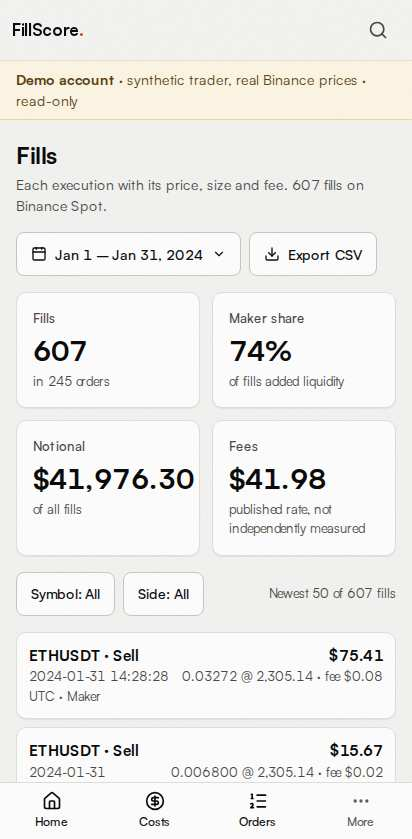
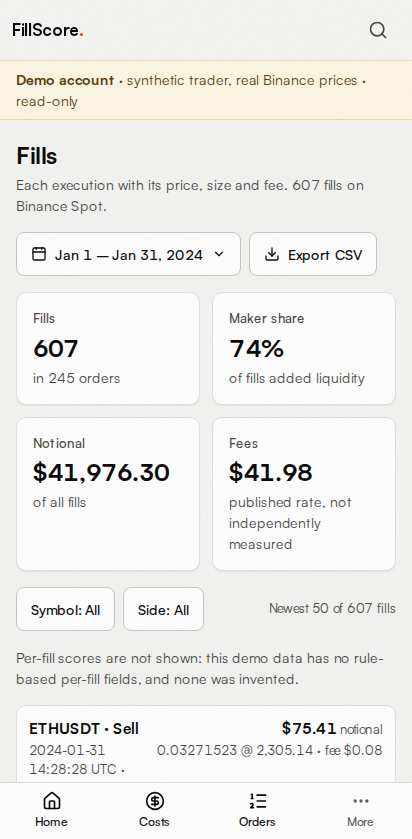
Design v5 review fixes, before and after numbers, checks

diff --git a/frontend/app/design-lab/v5/app/overview/page.tsx b/frontend/app/design-lab/v5/app/overview/page.tsx
@@ -5,7 +5,7 @@ import { bps, count, money, share } from '../../lib/format'
 import { ordersSentence, pageValues } from '../../lib/view'
 import { Card, CostBreakdown, GradeRange, Tile } from '../../components/Blocks'
 import { OrderCostChart, TypeBars } from '../../components/Charts'
-import { DemoBanner, PageHeader, PeriodPicker } from '../../components/PageHeader'
+import { PageHeader, PeriodPicker } from '../../components/PageHeader'
 
 /** Costs (was Overview; PROPOSAL §5). Route kept as /overview so the audit script measures the same address. */
 export default async function V5Costs({ searchParams }: { searchParams: Promise<{ userId?: string }> }) {
@@ -18,7 +18,6 @@ export default async function V5Costs({ searchParams }: { searchParams: Promise<
   const g = a.v2.result
   return (
     <main id="main">
-      <DemoBanner dataSource={a.dataSource} />
       <PageHeader title="Costs" description={ordersSentence(a, v.period)}
         controls={<PeriodPicker period={v.period} />}
         primary={<button type="button" className="v-btn v-btn-primary"><Download size={16} aria-hidden="true" />Download PDF</button>}
@@ -38,7 +37,7 @@ export default async function V5Costs({ searchParams }: { searchParams: Promise<
           </Card>
         ) : null}
         <div className="grid gap-4 xl:grid-cols-2">
-          <Card title="Cost per order" sentence="Each bar is one order’s measured cost, by the time it was placed." id="cpo" source="Source: your orders, measured against Binance public trades.">
+          <Card title="Cost per order" sentence="Each bar is one order’s cost: execution, fees, and for an unfilled order its modelled cost. Oldest to newest." id="cpo" source="Source: your orders, measured against Binance public trades.">
             <OrderCostChart points={points} label={`Cost of each of ${points.length} orders over ${v.period}`} />
           </Card>
           <Card title="By order type" sentence="Market and limit orders, each total in its three parts." id="type" source="Source: /audit/orders-summary byType.">
@@ -55,16 +54,17 @@ export default async function V5Costs({ searchParams }: { searchParams: Promise<
             source={`Score version ${a.v2.scoringVersion.replace(/^v/, '')} · integrity hash ${a.v2.integrityHash.slice(0, 12)}…`}>
             <div className="flex flex-col items-start gap-5 sm:flex-row sm:items-center">
               <GradeStamp grade={g.grade} score={g.composite} period={v.month} version={a.v2.scoringVersion} size="lg" />
-              <div className="w-full min-w-0 flex-1"><GradeRange score={g.composite} band={g.band} /><p className="mt-2 text-[14px] text-[var(--v-text-2)]">Range from the measurement: {g.band[0].toFixed(1)} to {g.band[1].toFixed(1)}.</p></div>
+              <div className="w-full min-w-0 flex-1"><GradeRange score={g.composite} band={g.band} /><p className="mt-2 text-[14px] text-[var(--v-text-2)]">Range from the measurement: {g.band[0].toFixed(1)} to {g.band[1].toFixed(1)}.</p>
+                <p className="mt-2 text-[14px] text-[var(--v-text-2)]">Earlier rule-based grade (scoring v1, published and locked): {a.v1.grade}, {a.v1.score.toFixed(1)} of 100. The two scores measure different things; neither replaces the other.</p></div>
             </div>
           </Card>
-          <Card title="Against the model estimate" sentence={`Market orders, ${count(ce.n, 'order')} inside the model.`} id="model"
+          <Card title="Against the cost estimate" sentence={`Market orders, ${count(ce.n, 'order')} inside the model.`} id="model"
             info="The model estimates what a market order of that size usually costs (square-root model, calibration ec1.0.0). It is an estimate, not a promise."
             source={`Source: /audit/v2 costVsExpected, version ${ce.version}.`}>
             {ce.insufficient ? <p className="text-[14px]">Insufficient data: fewer than 20 market orders inside the model.</p> : (
               <dl className="grid grid-cols-2 gap-3">
                 <div><dt className="text-[13px] text-[var(--v-text-2)]">Paid</dt><dd className="text-[22px] font-semibold">{bps(ce.paidBps)}</dd><dd className="text-[13px] text-[var(--v-text-2)]">{money(ce.paidUsd)}</dd></div>
-                <div><dt className="text-[13px] text-[var(--v-text-2)]">Model estimate</dt><dd className="text-[22px] font-semibold">{bps(ce.expectedBps)}</dd><dd className="text-[13px] text-[var(--v-text-2)]">{money(ce.expectedUsd)}</dd></div>
+                <div><dt className="text-[13px] text-[var(--v-text-2)]">Cost estimate</dt><dd className="text-[22px] font-semibold">{bps(ce.expectedBps)}</dd><dd className="text-[13px] text-[var(--v-text-2)]">{money(ce.expectedUsd)}</dd></div>
                 <div className="col-span-2 text-[14px] text-[var(--v-text-2)]">Difference {bps(ce.excessBps)}, 90% interval {bps(ce.lowBps)} to {bps(ce.highBps)}.</div>
               </dl>
             )}
@@ -77,6 +77,7 @@ export default async function V5Costs({ searchParams }: { searchParams: Promise<
             <div><dt className="text-[13px] text-[var(--v-text-2)]">Venue</dt><dd>Binance Spot</dd></div>
             <div><dt className="text-[13px] text-[var(--v-text-2)]">Data</dt><dd>{v.demo ? 'Synthetic trader, real prices' : 'Your exchange data'}</dd></div>
           </dl>
+          <p className="text-[14px] text-[var(--v-text-2)]">bps: basis points, hundredths of a percent of the order’s value (10 bps = 0.1%).</p>
         </Card>
       </div>
     </main>

diff --git a/frontend/app/design-lab/v5/app/fills/page.tsx b/frontend/app/design-lab/v5/app/fills/page.tsx
@@ -1,9 +1,9 @@
 import { Download } from 'lucide-react'
 import { loadAccount } from '../../lib/data'
-import { count, money, share, tableTime } from '../../lib/format'
+import { count, money, qty, share, tableTime } from '../../lib/format'
 import { pageValues } from '../../lib/view'
 import { Tile } from '../../components/Blocks'
-import { DemoBanner, PageHeader, PeriodPicker } from '../../components/PageHeader'
+import { PageHeader, PeriodPicker } from '../../components/PageHeader'
 
 /**
  * Fills (PROPOSAL §5 and §4 rows 1-2): one page, no Patterns tab and no not-computed sentence; the columns are the fill's own
@@ -15,7 +15,6 @@ export default async function V5Fills({ searchParams }: { searchParams: Promise<
   const rows = a.trades.slice(0, 50)
   return (
     <main id="main">
-      <DemoBanner dataSource={a.dataSource} />
       <PageHeader title="Fills" description={`Each execution with its price, size and fee. ${count(a.current.fills, 'fill')} on Binance Spot.`}
         controls={<PeriodPicker period={v.period} />}
         primary={<button type="button" className="v-btn"><Download size={16} aria-hidden="true" />Export CSV</button>} />
@@ -30,14 +29,16 @@ export default async function V5Fills({ searchParams }: { searchParams: Promise<
           <span className="v-btn">Symbol: All</span><span className="v-btn">Side: All</span>
           <p className="ml-auto text-[13px] text-[var(--v-text-2)]">Newest 50 of {count(a.current.fills, 'fill')}</p>
         </div>
+        {/* PROPOSAL §4 row 1, class (a): the column goes, one sentence stays where the reader looks */}
+        <p className="text-[14px] text-[var(--v-text-2)]">Per-fill scores are not shown: this demo data has no rule-based per-fill fields, and none was invented.</p>
         <div className="hidden overflow-x-auto rounded-[10px] border border-[var(--v-border)] bg-[var(--v-surface)] md:block">
           <table className="v-table">
-            <thead><tr><th>Time (UTC)</th><th>Symbol</th><th>Side</th><th className="num">Price</th><th className="num">Size</th><th className="num">Notional</th><th className="num">Fee</th><th>Liquidity</th></tr></thead>
+            <thead><tr><th>Time (UTC)</th><th>Symbol</th><th>Side</th><th className="num">Price</th><th className="num">Size</th><th className="num">Notional</th><th className="num">{v.headline?.feesNotMeasured ? 'Fee (published rate)' : 'Fee'}</th><th>Liquidity</th></tr></thead>
             <tbody>
               {rows.map((t) => (
                 <tr key={t.tradeId}>
                   <td>{tableTime(t.executedAt)}</td><td className="font-medium">{t.symbol}</td><td>{t.side === 'BUY' ? 'Buy' : 'Sell'}</td>
-                  <td className="num">{t.executionPrice.toLocaleString('en-US')}</td><td className="num">{t.quantity.toPrecision(4)}</td>
+                  <td className="num">{t.executionPrice.toLocaleString('en-US')}</td><td className="num">{qty(t.quantity)}</td>
                   <td className="num">{money(t.notional)}</td><td className="num">{money(t.feeUsd) ?? 'not computed'}</td><td>{t.isMaker ? 'Maker' : 'Taker'}</td>
                 </tr>
               ))}
@@ -48,7 +49,7 @@ export default async function V5Fills({ searchParams }: { searchParams: Promise<
           {rows.map((t) => (
             <li key={t.tradeId} className="v-card flex items-start justify-between gap-3 p-3">
               <span className="min-w-0"><span className="block text-[15px] font-semibold">{t.symbol} · {t.side === 'BUY' ? 'Buy' : 'Sell'}</span><span className="block text-[13px] text-[var(--v-text-2)]">{tableTime(t.executedAt)} UTC · {t.isMaker ? 'Maker' : 'Taker'}</span></span>
-              <span className="shrink-0 text-right"><span className="block text-[15px] font-semibold">{money(t.notional)}</span><span className="block text-[13px] text-[var(--v-text-2)]">{t.quantity.toPrecision(4)} @ {t.executionPrice.toLocaleString('en-US')} · fee {money(t.feeUsd) ?? 'not computed'}</span></span>
+              <span className="shrink-0 text-right"><span className="block text-[15px] font-semibold">{money(t.notional)} <span className="text-[13px] font-normal text-[var(--v-text-2)]">notional</span></span><span className="block text-[13px] text-[var(--v-text-2)]">{qty(t.quantity)} @ {t.executionPrice.toLocaleString('en-US')} · fee {money(t.feeUsd) ?? 'not computed'}</span></span>
             </li>
           ))}
         </ul>

diff --git a/frontend/app/design-lab/v5/components/Charts.tsx b/frontend/app/design-lab/v5/components/Charts.tsx
@@ -26,8 +26,8 @@ export function OrderCostChart({ points, label }: { points: OrderPoint[]; label:
           <BarChart data={points} margin={{ top: 8, right: 8, bottom: 22, left: 8 }} barCategoryGap="12%">
             <CartesianGrid vertical={false} stroke="var(--v-grid)" />
             <XAxis dataKey="t" type="category" tickFormatter={dayFmt} tick={tick} stroke="var(--v-axis)" interval="preserveStartEnd" minTickGap={28}
-              label={{ value: 'Orders in the order they were placed (UTC, month/day)', position: 'insideBottom', offset: -14, fontSize: 12, fill: 'var(--v-text-2)' }} />
-            <YAxis tick={tick} stroke="var(--v-axis)" width={56} tickFormatter={(v: number) => `$${v}`}
+              label={{ value: 'Orders, oldest to newest (UTC date, month/day; evenly spaced, not to time scale)', position: 'insideBottom', offset: -14, fontSize: 12, fill: 'var(--v-text-2)' }} />
+            <YAxis tick={tick} stroke="var(--v-axis)" width={56} tickFormatter={(v: number) => money(v) ?? ''}
               label={{ value: 'Cost ($)', angle: -90, position: 'insideLeft', fontSize: 12, fill: 'var(--v-text-2)', dy: 30 }} />
             <ReferenceLine y={0} stroke="var(--v-axis)" />
             <Tooltip cursor={{ fill: 'var(--v-surface-2)' }} content={({ active, payload }) => {
@@ -73,7 +73,6 @@ export function TypeBars({ rows }: { rows: TypeRow[] }) {
 
 export interface TradePoint { t: number; price: number; side: 'buyer' | 'seller'; qty: number }
 export interface FillPoint { t: number; price: number; qty: number }
-const clock = (t: number) => new Date(t).toISOString().slice(11, 21)
 const clockMs = (t: number) => new Date(t).toISOString().slice(11, 23)
 /**
  * Public trades around one order (time in seconds from the order's arrival × price), buyer- and seller-initiated in two shapes,
@@ -87,7 +86,8 @@ export function PricePrintsChart({ trades, fills, quote, arrivalMs }: { trades: 
         <ResponsiveContainer width="100%" height="100%">
           <ScatterChart margin={{ top: 8, right: 12, bottom: 22, left: 8 }}>
             <CartesianGrid stroke="var(--v-grid)" />
-            <XAxis type="number" dataKey="t" tick={tick} stroke="var(--v-axis)" domain={['dataMin', 'dataMax']} tickFormatter={clock} tickCount={3}
+            <XAxis type="number" dataKey="t" tick={tick} stroke="var(--v-axis)" tickFormatter={clockMs} tickCount={3}
+              domain={[(lo: number) => Math.min(lo, arrivalMs), (hi: number) => Math.max(hi, arrivalMs)]}
               label={{ value: 'Time (UTC)', position: 'insideBottom', offset: -14, fontSize: 12, fill: 'var(--v-text-2)' }} />
             <YAxis type="number" dataKey="price" tick={tick} stroke="var(--v-axis)" domain={['auto', 'auto']} width={72}
               label={{ value: `Price (${quote})`, angle: -90, position: 'insideLeft', fontSize: 12, fill: 'var(--v-text-2)', dy: 36 }} />
@@ -106,8 +106,9 @@ export function PricePrintsChart({ trades, fills, quote, arrivalMs }: { trades: 
         </ResponsiveContainer>
       </div>
       <figcaption className="flex flex-wrap gap-x-4 gap-y-1 text-[13px] text-[var(--v-text-2)]">
-        <span className="inline-flex items-center gap-1.5"><span aria-hidden="true" style={{ color: 'var(--v-s1)' }}>▲</span>Public trade, buyer-initiated</span>
-        <span className="inline-flex items-center gap-1.5"><span aria-hidden="true" style={{ color: 'var(--v-s2)' }}>●</span>Public trade, seller-initiated</span>
+        {buyer.length ? <span className="inline-flex items-center gap-1.5"><span aria-hidden="true" style={{ color: 'var(--v-s1)' }}>▲</span>Public trade, buyer-initiated</span> : null}
+        {seller.length ? <span className="inline-flex items-center gap-1.5"><span aria-hidden="true" style={{ color: 'var(--v-s2)' }}>●</span>Public trade, seller-initiated</span> : null}
+        <span className="inline-flex items-center gap-1.5"><span aria-hidden="true" className="inline-block h-3 border-l border-dashed border-current" />Order placed</span>
         <span className="inline-flex items-center gap-1.5"><span aria-hidden="true">◆</span>Your fill</span>
       </figcaption>
     </figure>

diff --git a/frontend/app/design-lab/v5/app/page.tsx b/frontend/app/design-lab/v5/app/page.tsx
@@ -5,7 +5,7 @@ import { bps, money, textTime } from '../lib/format'
 import { pageValues } from '../lib/view'
 import { Card, Tile } from '../components/Blocks'
 import { OrderCostChart } from '../components/Charts'
-import { DemoBanner, PageHeader, PeriodPicker } from '../components/PageHeader'
+import { PageHeader, PeriodPicker } from '../components/PageHeader'
 
 // The questions the production Home offers as recorded answers for demo accounts (frontend/app/lib/ask/ask-recorded-claims.json).
 const QUESTIONS = ['Which orders cost the most?', 'What did my orders cost in total?', 'How did my market orders compare with the modelled cost?', 'What score did my execution get?']
@@ -18,7 +18,6 @@ export default async function V5Home({ searchParams }: { searchParams: Promise<{
   const costliest = [...a.ledger.orders].filter((o) => o.cost.usd !== null).sort((x, y) => (y.cost.usd as number) - (x.cost.usd as number)).slice(0, 5)
   return (
     <main id="main">
-      <DemoBanner dataSource={a.dataSource} />
       <PageHeader title="Home" description={`Your account at a glance: what the ${a.ordersBody.counts.orders} orders cost, ${v.period}.`}
         controls={<PeriodPicker period={v.period} />}
         primary={<button type="button" className="v-btn v-btn-primary"><Download size={16} aria-hidden="true" />Download PDF</button>}
@@ -31,12 +30,12 @@ export default async function V5Home({ searchParams }: { searchParams: Promise<{
           <Tile label="Execution grade" value={v.tiles.grade.value} sub={v.tiles.grade.sub} />
         </div>
         <div className="grid gap-4 xl:grid-cols-[minmax(0,1.6fr)_minmax(0,1fr)]">
-          <Card title="Cost per order" sentence="Each bar is one order’s measured cost, by the time it was placed." id="cpo"
+          <Card title="Cost per order" sentence="Each bar is one order’s cost: execution, fees, and for an unfilled order its modelled cost. Oldest to newest." id="cpo"
             info="An order's cost is its implementation shortfall: execution against the market price when the order arrived, plus fees, plus the modelled cost of what did not fill. Measured by the server; this chart draws the stored values."
             source="Source: your orders, measured against Binance public trades (scoring v2.3.0).">
             <OrderCostChart points={points} label={`Cost of each of ${points.length} orders over ${v.period}`} />
           </Card>
-          <Card title="Costliest orders" sentence="The five orders with the highest measured cost." id="top">
+          <Card title="Costliest orders" sentence="The five orders with the highest cost (unfilled orders count their modelled cost)." id="top">
             <ul className="flex flex-col divide-y divide-[var(--v-border)]">
               {costliest.map((o) => (
                 <li key={o.key}>
@@ -54,7 +53,7 @@ export default async function V5Home({ searchParams }: { searchParams: Promise<{
             <MessageSquareText size={18} aria-hidden="true" />Ask a question about these orders (sign in to ask your own)
           </div>
           <div className="flex flex-wrap gap-2">
-            {QUESTIONS.map((q) => <span key={q} className="rounded-full border border-[var(--v-border-strong)] px-3 py-1.5 text-[14px]">{q}</span>)}
+            {QUESTIONS.map((q) => <span key={q} className="rounded-full border border-dashed border-[var(--v-border-strong)] px-3 py-1.5 text-[14px] text-[var(--v-text-2)]">{q}</span>)}
           </div>
           <p className="text-[13px] text-[var(--v-text-2)]">Recorded answers open in the production app; this prototype shows the layout only.</p>
         </Card>

diff --git a/frontend/app/design-lab/v5/lib/view.ts b/frontend/app/design-lab/v5/lib/view.ts
@@ -11,22 +11,24 @@ const MONTHS = ['Jan', 'Feb', 'Mar', 'Apr', 'May', 'Jun', 'Jul', 'Aug', 'Sep', '
 const day = (iso: string) => { const d = new Date(iso); return `${MONTHS[d.getUTCMonth()]} ${d.getUTCDate()}` }
 
 export function pageValues(a: Account) {
-  const demo = a.dataSource === 'synthetic-demo'
+  const demo = a.dataSource !== 'real-user'   // unknown provenance is never shown as the user's own data (review fix)
   const headline = describeHeadline(a.ordersBody, demo)
   const strip = describeStrip(a.ordersBody, headline?.feesNotMeasured ?? false)
   // the ledger is served newest first: its last and first rows are the period's first and last orders
   const first = a.ledger.orders[a.ledger.orders.length - 1]?.placedAt, last = a.ledger.orders[0]?.placedAt
-  const period = first && last ? `${day(first)} – ${day(last)}, ${new Date(last).getUTCFullYear()}` : 'All stored orders'
+  const y1 = first ? new Date(first).getUTCFullYear() : 0, y2 = last ? new Date(last).getUTCFullYear() : 0
+  const period = first && last ? (y1 === y2 ? `${day(first)} – ${day(last)}, ${y2}` : `${day(first)}, ${y1} – ${day(last)}, ${y2}`) : 'All stored orders'
   const t = a.ordersBody.shortfall.totals
   const g = a.v2.result
   const month = last ? new Date(last).toLocaleString('en-US', { month: 'long', year: 'numeric', timeZone: 'UTC' }) : ''
   return {
     demo, headline, strip, period, month,
     tiles: {
-      total: { value: money(headline?.totalUsd ?? null) ?? 'insufficient data', sub: headline ? `${bps(headline.totalBps)} · ${count(headline.orders, 'order')}` : undefined },
+      // review fixes: a missing headline is "not computed" (production's state there); the total says how much of it was modelled
+      total: { value: money(headline?.totalUsd ?? null) ?? 'not computed', sub: headline ? `${bps(headline.totalBps)} · ${count(headline.orders, 'order')}${headline.unfilledUsd ? ` · includes ${money(headline.unfilledUsd)} modelled for unfilled orders` : ''}` : undefined },
       fees: { value: money(t.fees.usd) ?? 'insufficient data', sub: headline?.feesNotMeasured ? 'published rate, not independently measured' : bps(t.fees.bps) ?? undefined },
       unfilled: { value: money(headline?.unfilledUsd ?? null) ?? 'insufficient data', sub: headline?.unfilledOrders != null ? `${count(headline.unfilledOrders, 'order')} that never filled` : undefined },
-      grade: { value: `${g.grade} · ${g.composite.toFixed(1)}`, sub: `of 100 · range ${g.band[0].toFixed(1)} to ${g.band[1].toFixed(1)}` },
+      grade: { value: `${g.grade} · ${g.composite.toFixed(1)}`, sub: `of 100, measured (score ${a.v2.scoringVersion}) · range ${g.band[0].toFixed(1)} to ${g.band[1].toFixed(1)}` },
     },
   }
 }

diff --git a/frontend/app/design-lab/v5/components/OrdersClient.tsx b/frontend/app/design-lab/v5/components/OrdersClient.tsx
@@ -50,14 +50,14 @@ export function OrdersClient({ orders, receipts, demo, initialOrder }: { orders:
       {/* desktop and tablet: table (one variant is rendered, chosen by the viewport, so a row has one target) */}
       {!phone ? <div className="mx-4 overflow-x-auto rounded-[10px] border border-[var(--v-border)] bg-[var(--v-surface)] lg:mx-8">
         <table className="v-table">
-          <thead><tr><th>Placed (UTC)</th><th>Symbol</th><th>Side</th><th>Type</th><th>Status</th><th className="num">Notional</th><th className="num">Fees</th><th className="num">Cost</th><th className="num">Cost (bps)</th></tr></thead>
+          <thead><tr><th>Placed (UTC)</th><th>Symbol</th><th>Side</th><th>Type</th><th>Status</th><th className="num">Notional</th><th className="num">{demo ? 'Fees (published rate)' : 'Fees'}</th><th className="num">Cost</th><th className="num">Cost (bps)</th></tr></thead>
           <tbody>
             {shown.map((o) => (
               <tr key={o.key} data-testid="orders-row" data-clickable tabIndex={0} onClick={(e) => pick(o.orderId, e.currentTarget)} onKeyDown={(e) => { if (e.key === 'Enter') pick(o.orderId, e.currentTarget) }}>
                 <td>{tableTime(o.placedAt)}</td><td className="font-medium">{o.symbol}</td><td>{sideWord(o.side)}</td><td>{typeWord(o.type)}</td>
                 <td className={o.status === 'FILLED' ? '' : 'text-[var(--v-text-2)]'}>{statusWord(o.status)}</td>
                 <td className="num">{money(o.notionalUsd)}</td><td className="num">{money(o.feesUsd)}</td>
-                <td className="num font-semibold">{money(o.cost.usd) ?? <span className="text-[var(--v-text-2)]">insufficient data</span>}</td>
+                <td className="num font-semibold">{money(o.cost.usd) ?? <span className="text-[var(--v-text-2)]">insufficient data</span>}{o.fills === 0 && o.cost.usd !== null ? <span className="block text-[12px] font-normal text-[var(--v-text-2)]">modelled, not paid</span> : null}</td>
                 <td className="num">{bps(o.cost.bps) ?? ''}</td>
               </tr>
             ))}
@@ -76,7 +76,7 @@ export function OrdersClient({ orders, receipts, demo, initialOrder }: { orders:
               </span>
               <span className="shrink-0 text-right">
                 <span className="block text-[15px] font-semibold">{money(o.cost.usd) ?? 'insufficient data'}</span>
-                <span className="block text-[13px] text-[var(--v-text-2)]">{bps(o.cost.bps) ?? ''}</span>
+                <span className="block text-[13px] text-[var(--v-text-2)]">{o.fills === 0 && o.cost.usd !== null ? 'modelled, not paid' : bps(o.cost.bps) ?? ''}</span>
               </span>
             </button>
           </li>

diff --git a/frontend/app/design-lab/v5/page.tsx b/frontend/app/design-lab/v5/page.tsx
@@ -34,7 +34,7 @@ export default function V5Landing() {
           <section className="mx-auto grid max-w-[1200px] items-center gap-10 px-5 pb-16 pt-8 lg:grid-cols-[minmax(0,1.1fr)_minmax(0,0.9fr)] lg:pt-16">
             <div>
               <p className="mb-4 inline-flex rounded-full border border-[var(--v-border-strong)] bg-[var(--v-surface)] px-3 py-1 text-[13px] text-[var(--v-text-2)]">Trade cost audit for crypto traders · read-only keys</p>
-              <h1 className="text-[44px] font-black leading-[1.02] tracking-[-0.045em] sm:text-[64px]">See what every trade really cost.</h1>
+              <h1 className="text-[44px] font-black leading-[1.02] tracking-[-0.045em] sm:text-[64px]">See what each of your trades cost.</h1>
               <p className="mt-5 max-w-[46ch] text-[18px] leading-relaxed text-[var(--v-text-2)]">FillScore checks each of your fills against the exchange’s public trades and writes down what it cost: spread, impact, fees. It audits the past and never tells you how to trade.</p>
               <div className="mt-7 flex flex-wrap gap-3">
                 <Link href="/design-lab/v5/app?userId=demo-moderate" className="v-btn v-btn-primary !min-h-[48px] !px-5 text-[16px]">Try the demo<ArrowRight size={18} aria-hidden="true" /></Link>
@@ -58,9 +58,9 @@ export default function V5Landing() {
                   <span className="lab">Total</span>
                   <span className="text-[28px] font-bold" style={{ fontFamily: 'var(--f-cabinet)' }}>{money(heroCosts.total.usd)} <span className="text-[14px] font-normal">{bps(heroCosts.total.bps)}</span></span>
                 </div>
-                <p className="v-line mt-2 text-[13px]" style={{ fontFamily: 'var(--f-cabinet)' }}>Fees at the published rate: not independently measured. Demo receipt: NOT SIGNED.</p>
+                <p className="v-line mt-2 text-[14px]" style={{ fontFamily: 'var(--f-cabinet)' }}>Fees at the published rate: not independently measured. Demo receipt: NOT SIGNED.</p>
               </article>
-              <figcaption className="mt-3 text-center text-[13px] text-[var(--v-text-2)]">One real demo order, measured against Binance public trades of {day}.</figcaption>
+              <figcaption className="mt-3 text-center text-[13px] text-[var(--v-text-2)]">One demo order from a synthetic trader, measured against real Binance public trades of {day}.</figcaption>
             </figure>
           </section>
         </HeroHalo>

diff --git a/frontend/app/design-lab/v5/components/Shell.tsx b/frontend/app/design-lab/v5/components/Shell.tsx
@@ -5,6 +5,7 @@ import { useEffect, useState } from 'react'
 import { ArrowLeftRight, BookOpen, ChartColumn, ChevronDown, CircleDollarSign, Ellipsis, FileCheck2, Flag, House, ListOrdered, Monitor, Moon,
   Search, Settings, ShieldCheck, Sparkles, Sun, X, type LucideIcon } from 'lucide-react'
 import { useV5Theme, type ThemeChoice } from '../ThemeRoot'
+import { DemoBanner } from './PageHeader'
 
 /** The v5 sidebar (PROPOSAL §3.1): nouns with icons in three groups; the pages not in this prototype are shown disabled. */
 const BASE = '/design-lab/v5/app'
@@ -14,7 +15,7 @@ const GROUPS: Array<{ title: string | null; items: Item[] }> = [
     { label: 'Home', path: '', icon: House }, { label: 'Costs', path: '/overview', icon: CircleDollarSign },
     { label: 'Orders', path: '/orders', icon: ListOrdered }, { label: 'Fills', path: '/fills', icon: ArrowLeftRight }] },
   { title: 'Review', items: [
-    { label: 'Rule breaks', path: null, icon: Flag }, { label: 'Comparisons', path: null, icon: ChartColumn }, { label: 'AI review', path: null, icon: Sparkles }] },
+    { label: 'Flagged orders', path: null, icon: Flag }, { label: 'Comparisons', path: null, icon: ChartColumn }, { label: 'AI review', path: null, icon: Sparkles }] },
   { title: 'Tools', items: [{ label: 'Reports', path: null, icon: ShieldCheck }, { label: 'Check a broker file', path: '/check', icon: FileCheck2 }] },
 ]
 const PHONE_BAR = ['Home', 'Costs', 'Orders']
@@ -107,7 +108,11 @@ export function Shell({ children }: { children: React.ReactNode }) {
         </div>
       </header>
 
-      <div className="min-w-0 pb-20 lg:pb-0">{children}</div>
+      <div className="min-w-0 pb-20 lg:pb-0">
+        {/* provenance on every app page (review fix): every account this prototype serves is a demo account */}
+        <DemoBanner dataSource={account.startsWith('demo-') ? 'synthetic-demo' : 'real-user'} />
+        {children}
+      </div>
 
       {/* phone and tablet bottom bar: four items with icons and labels */}
       <nav aria-label="Main" className="fixed inset-x-0 bottom-0 z-30 grid grid-cols-4 border-t border-[var(--v-border)] bg-[var(--v-surface)] pb-[env(safe-area-inset-bottom)] lg:hidden">

diff --git a/frontend/app/design-lab/v5/lib/data.ts b/frontend/app/design-lab/v5/lib/data.ts
@@ -51,7 +51,7 @@ export interface Replay {
 }
 export interface Account {
   id: AccountId; label: string; dataSource: string; ordersBody: OrdersBody; ledger: { counts: OrdersBody['counts']; orders: LedgerOrder[] }
-  v2: V2Body; current: { fills: number; orders: number; notionalUsd: number; makerRatio: number }; trades: Trade[]; replays: Record<string, Replay>
+  v2: V2Body; v1: { grade: string; score: number }; current: { fills: number; orders: number; notionalUsd: number; makerRatio: number }; trades: Trade[]; replays: Record<string, Replay>
 }
 
 const root = process.cwd()   // frontend/
@@ -59,7 +59,7 @@ export function loadAccount(id: string | undefined): Account {
   const acc = (ACCOUNTS as readonly string[]).includes(id ?? '') ? (id as AccountId) : 'demo-moderate'
   const f = JSON.parse(readFileSync(join(root, 'e2e-shots', 'fixtures', `${acc}.json`), 'utf8'))
   return { id: acc, label: ACCOUNT_LABEL[acc], dataSource: f.trades.trades[0]?.dataSource ?? f.v2Body.demo?.dataSource ?? 'unknown',
-    ordersBody: f.ordersBody, ledger: f.ledger, v2: f.v2Body, current: f.current, trades: f.trades.trades, replays: f.replays }
+    ordersBody: f.ordersBody, ledger: f.ledger, v2: f.v2Body, v1: f.v1, current: f.current, trades: f.trades.trades, replays: f.replays }
 }
 
 export type Print = [aggId: number, tsMs: number, price: number, qty: number, isBuyerMaker: 0 | 1]

diff --git a/frontend/app/design-lab/v5/components/Receipt.tsx b/frontend/app/design-lab/v5/components/Receipt.tsx
@@ -50,9 +50,9 @@ export function Receipt({ replay, demo }: { replay: Replay; demo: boolean }) {
         <span className="lab">Total</span>
         {total && total.usd !== null ? <span className="text-[22px] font-bold" style={{ fontFamily: 'var(--f-cabinet)' }}>{money(total.usd)} <span className="text-[14px] font-normal">{bps(total.bps)}</span></span> : <span>NOT COMPUTED</span>}
       </div>
-      {demo ? <p className="mt-2 text-[13px]" style={{ fontFamily: 'var(--f-cabinet)' }}>Fees at the published rate: not independently measured.</p> : null}
+      {demo ? <p className="mt-2 text-[14px]" style={{ fontFamily: 'var(--f-cabinet)' }}>Fees at the published rate: not independently measured.</p> : null}
       <details className="mt-3">
-        <summary className="lab cursor-pointer py-2">Notes ({replay.notes.length + replay.sources.length})</summary>
+        <summary className="lab cursor-pointer py-2">+ Notes ({replay.notes.length + replay.sources.length})</summary>
         <ul className="flex flex-col gap-1 text-[13px]" style={{ fontFamily: 'var(--f-cabinet)' }}>
           {replay.notes.map((n) => <li key={n}>{n}</li>)}
           {replay.expectedCost && !replay.expectedCost.applies && replay.expectedCost.reason ? <li>Model estimate: does not apply ({replay.expectedCost.reason}).</li> : null}

diff --git a/frontend/app/design-lab/v5/app/orders/page.tsx b/frontend/app/design-lab/v5/app/orders/page.tsx
@@ -2,7 +2,7 @@ import { Download } from 'lucide-react'
 import { loadAccount, loadPrintWindow } from '../../lib/data'
 import { pageValues } from '../../lib/view'
 import { OrdersClient, type ReceiptData } from '../../components/OrdersClient'
-import { DemoBanner, PageHeader, PeriodPicker } from '../../components/PageHeader'
+import { PageHeader, PeriodPicker } from '../../components/PageHeader'
 
 export default async function V5Orders({ searchParams }: { searchParams: Promise<{ userId?: string; order?: string }> }) {
   const sp = await searchParams
@@ -23,7 +23,6 @@ export default async function V5Orders({ searchParams }: { searchParams: Promise
   }
   return (
     <main id="main">
-      <DemoBanner dataSource={a.dataSource} />
       <PageHeader title="Orders" description={`Every order, what it cost, and its receipt. ${a.ordersBody.counts.orders} orders, ${a.ordersBody.counts.withFills} with fills.`}
         controls={<PeriodPicker period={v.period} />}
         primary={<button type="button" className="v-btn"><Download size={16} aria-hidden="true" />Export CSV</button>} />

diff --git a/frontend/app/design-lab/v5/components/PageHeader.tsx b/frontend/app/design-lab/v5/components/PageHeader.tsx
@@ -4,7 +4,8 @@ import { Calendar, ChevronDown, Ellipsis, Info } from 'lucide-react'
 
 /** Provenance banner (PROPOSAL §3.6): every app page of a demo account, 14 px, full width. Words kept from the invariant. */
 export function DemoBanner({ dataSource }: { dataSource: string }) {
-  if (dataSource !== 'synthetic-demo') return null
+  // anything that is not stated to be the user's own data is shown as demo data (review fix: an unknown source never hides it)
+  if (dataSource === 'real-user') return null
   return (
     <div data-testid="provenance-banner" className="border-b border-[var(--v-banner-border)] bg-[var(--v-banner)] px-4 py-2 text-[14px] text-[var(--v-banner-text)] lg:px-8">
       <strong className="font-semibold">Demo account</strong> · synthetic trader, real Binance prices · read-only
